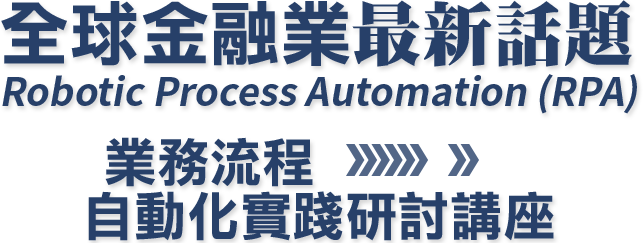
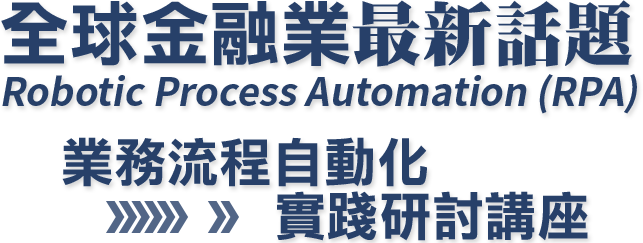
180416-3

Changed region(s): [[0.0933, 0.5473, 0.9331, 1.0]]

diff --git a/web/index.html b/web/index.html
@@ -54,7 +54,7 @@
                             人工智慧如何幫助加快業務流程、加值人力運用、加速創新轉型？<br>
                             新加坡跨國銀行的最佳實踐分享、<br>銀行與保險業分組研討最具價值的流程自動化<br>
                             從如何評估、選擇工具、操作階段到實際演示，最具實用性的一場活動<br>
-                            5/16 為你的企業強打造未來五到十年的永續競爭力！
+                            5月16日，IBM 為台灣金融業啟動智慧化加速器。
                         </div>
                         <a class="btn btn-block btn-lg btn-anchor btn-cta" href="#section-join">立即報名</a>
                     </div>
@@ -71,8 +71,8 @@
                 </div>
                 <div class="col-12 col-md-10">
                     <blockquote class="blockquote text-left">
-                        <p class="text-justify　mb-4">　　金融產業競爭激烈，也促使銀行與保險業者的創新範圍越趨廣泛，從產品、通路、互動，更進一步延伸到業務流程的加速。
-                            短短兩年間，機器人流程自動化（Robotic Process Automation, RPA) 席捲全球產業。效率的提升、錯誤率的降低，對業務創新帶來的推波助瀾，也使得對效益最為敏感的金融業積極思考。</p>
+                        <p class="text-justify　mb-4">　　金融產業競爭激烈，也促使銀行與保險業者的創新範圍越趨廣泛，從產品、通路、互動，更進一步延伸到業務流程的加速。</p>
+                            <p class="text-justify　mb-4">　　短短兩年間，機器人流程自動化（Robotic Process Automation, RPA) 席捲全球產業。<br>效率的提升、錯誤率的降低，對業務創新帶來的推波助瀾，也使得對效益最為敏感的金融業積極思考。</p>
                         <p class="text-justify　mb-0">　　IBM 引進在新加坡協助跨國銀行進行機器人流程自動化，進而推廣到其全球分行的經驗，幫助台灣金融業快速引進，並且前進下一步：以人工智慧為核心的認知流程自動化。</p>
                     </blockquote>
                 </div>
@@ -320,10 +320,10 @@
                             注意事項：
                             <ul class="pl-4">
                                 <li>
-                                    由於議程主要為銀行與保險產業之相關業務經理人(營運長、資訊、數位金融、企業金融、個人金融、風控部門主管)規劃設計，主辦單位優先接受相關報名並保留報名審核之權利。
+                                    由於議程主要為<strong class="text-primary">銀行與保險產業之相關業務經理人(營運長、資訊、數位金融、企業金融、個人金融、風控部門主管)</strong>規劃設計，主辦單位優先接受相關報名並保留報名審核之權利。
                                 </li>
                                 <li>本論壇免費參加，席次有限，敬請提早報名。主辦單位待收到您的報名後，將盡快以簡訊或Mail通知並確認您的報名成功。</li>
-                                <li>本報名請於5/11(五)前完成報名，主辦單位將於5/14(一)以簡訊發送入場序號，當天入場請以簡訊作為入場憑證。</li>
+                                <li>本講座請於5/11(五)前完成報名，主辦單位將於5/14(一)以簡訊發送入場序號，當天入場請以簡訊作為入場憑證。</li>
                                 <li>如有任何問題，活動專線：(02)2581-6196 分機628、608或609。(週一至週五 09:30-18:00)</li>
                             </ul>
                         </div>
@@ -338,13 +338,13 @@
                 <div class="font-small text-center">
                     <div class="d-inline-block mx-2">
                         主辦單位
-                        <img class="img-fluid" src="assets/img/ui/logo-ibm.png" srcset="assets/img/ui/logo-ibm@2x.png 2x" alt="IBM">
+                        <img class="img-fluid ml-2" src="assets/img/ui/logo-ibm.png" srcset="assets/img/ui/logo-ibm@2x.png 2x" alt="IBM">
                     </div>
                     <div class="d-inline-block mx-2">
                         媒體夥伴
-                        <img class="img-fluid" src="assets/img/ui/logo-businesstoday.png" srcset="assets/img/ui/logo-businesstoday@2x.png 2x" alt="今周刊">
+                        <img class="img-fluid ml-2" src="assets/img/ui/logo-businesstoday.png" srcset="assets/img/ui/logo-businesstoday@2x.png 2x" alt="今周刊">
                     </div>
-                    <div class="d-block mt-2">
+                    <div class="d-block mt-4">
                         今周文化事業(股)公司/今周行銷(股)公司/今周出版(股)公司 版權所有 本網站圖文非經本社同意不得刊載 Copyright &copy; 2018 Business Today All rights reserved
                     </div>
                 </div>
